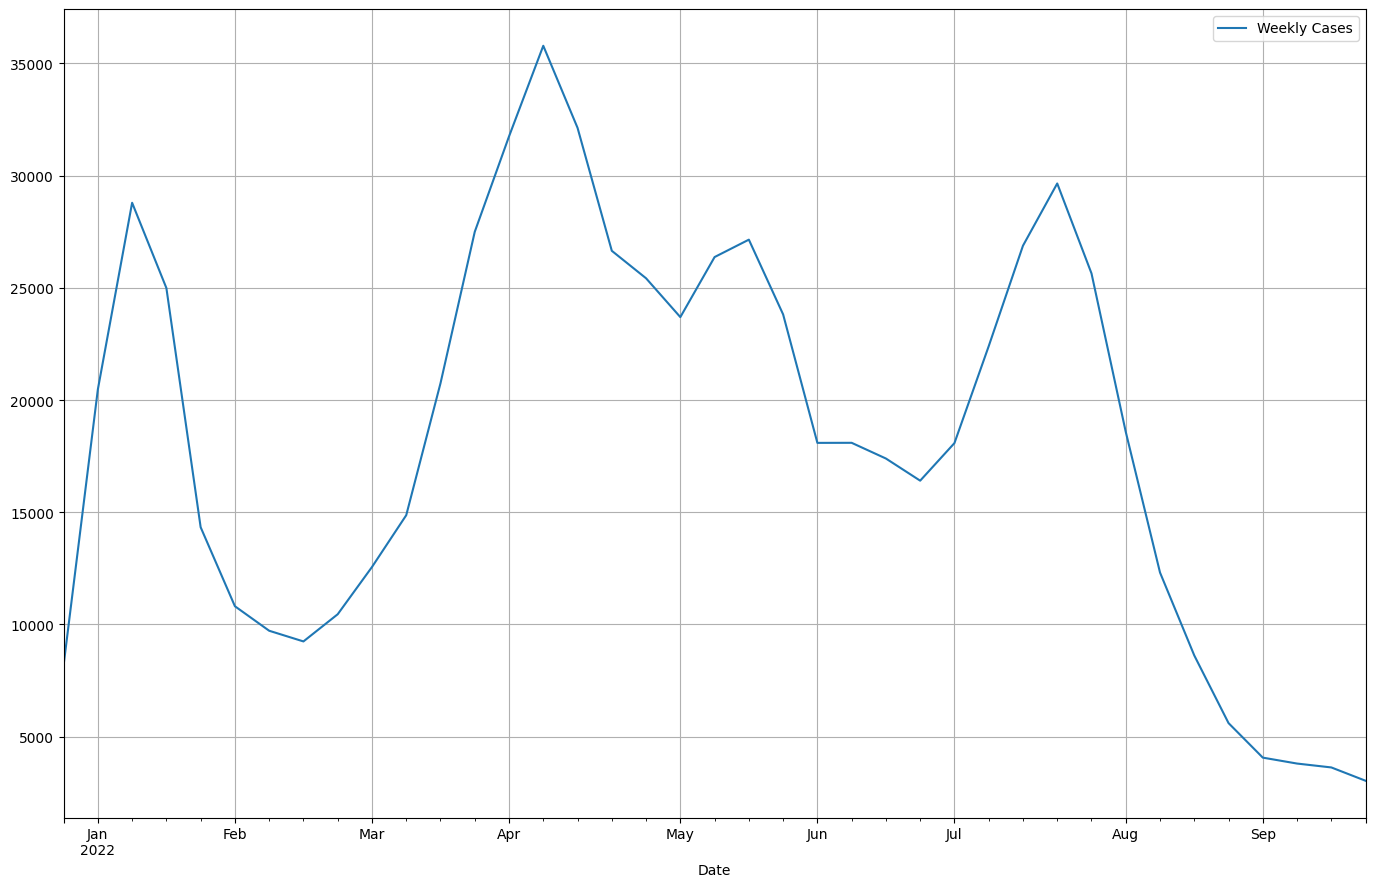
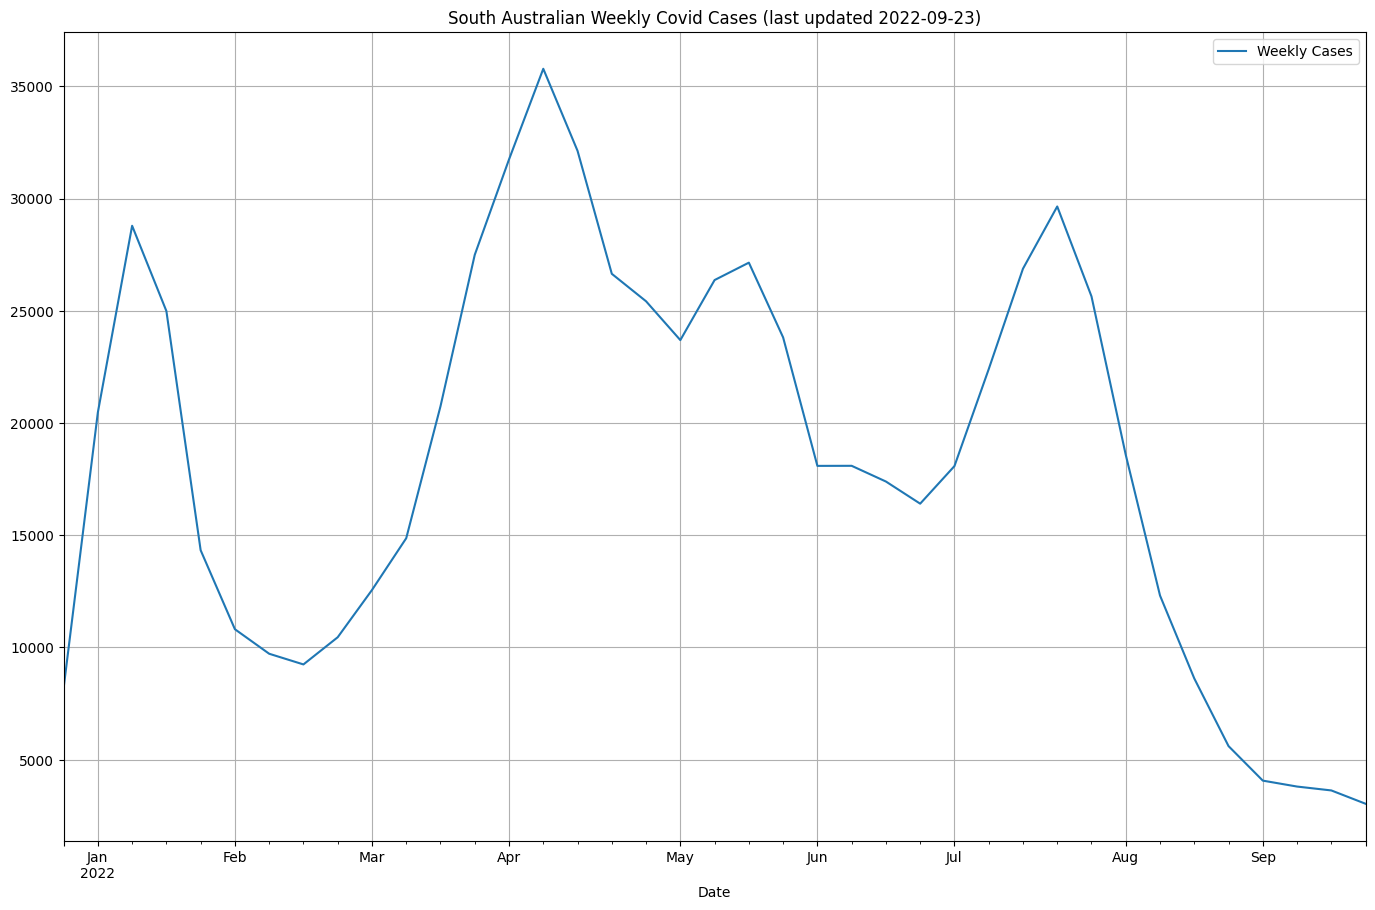
Add title, last updated info

diff --git a/covid-sa.py b/covid-sa.py
@@ -14,7 +14,10 @@ def exponential_model(x, a, b, c, d, e):
     return a * x**4 + b * x**3 + c * x**2 + d * x + e
 
 def plot(data):
-    data.plot()
+    lastdate = data.iloc[-1]
+    lastdate = str(lastdate.name).split(' ')[0]
+    txt = f'South Australian Weekly Covid Cases (last updated {lastdate})'
+    data.plot(title=txt)
     plt.grid()
     #plt.show()
     
